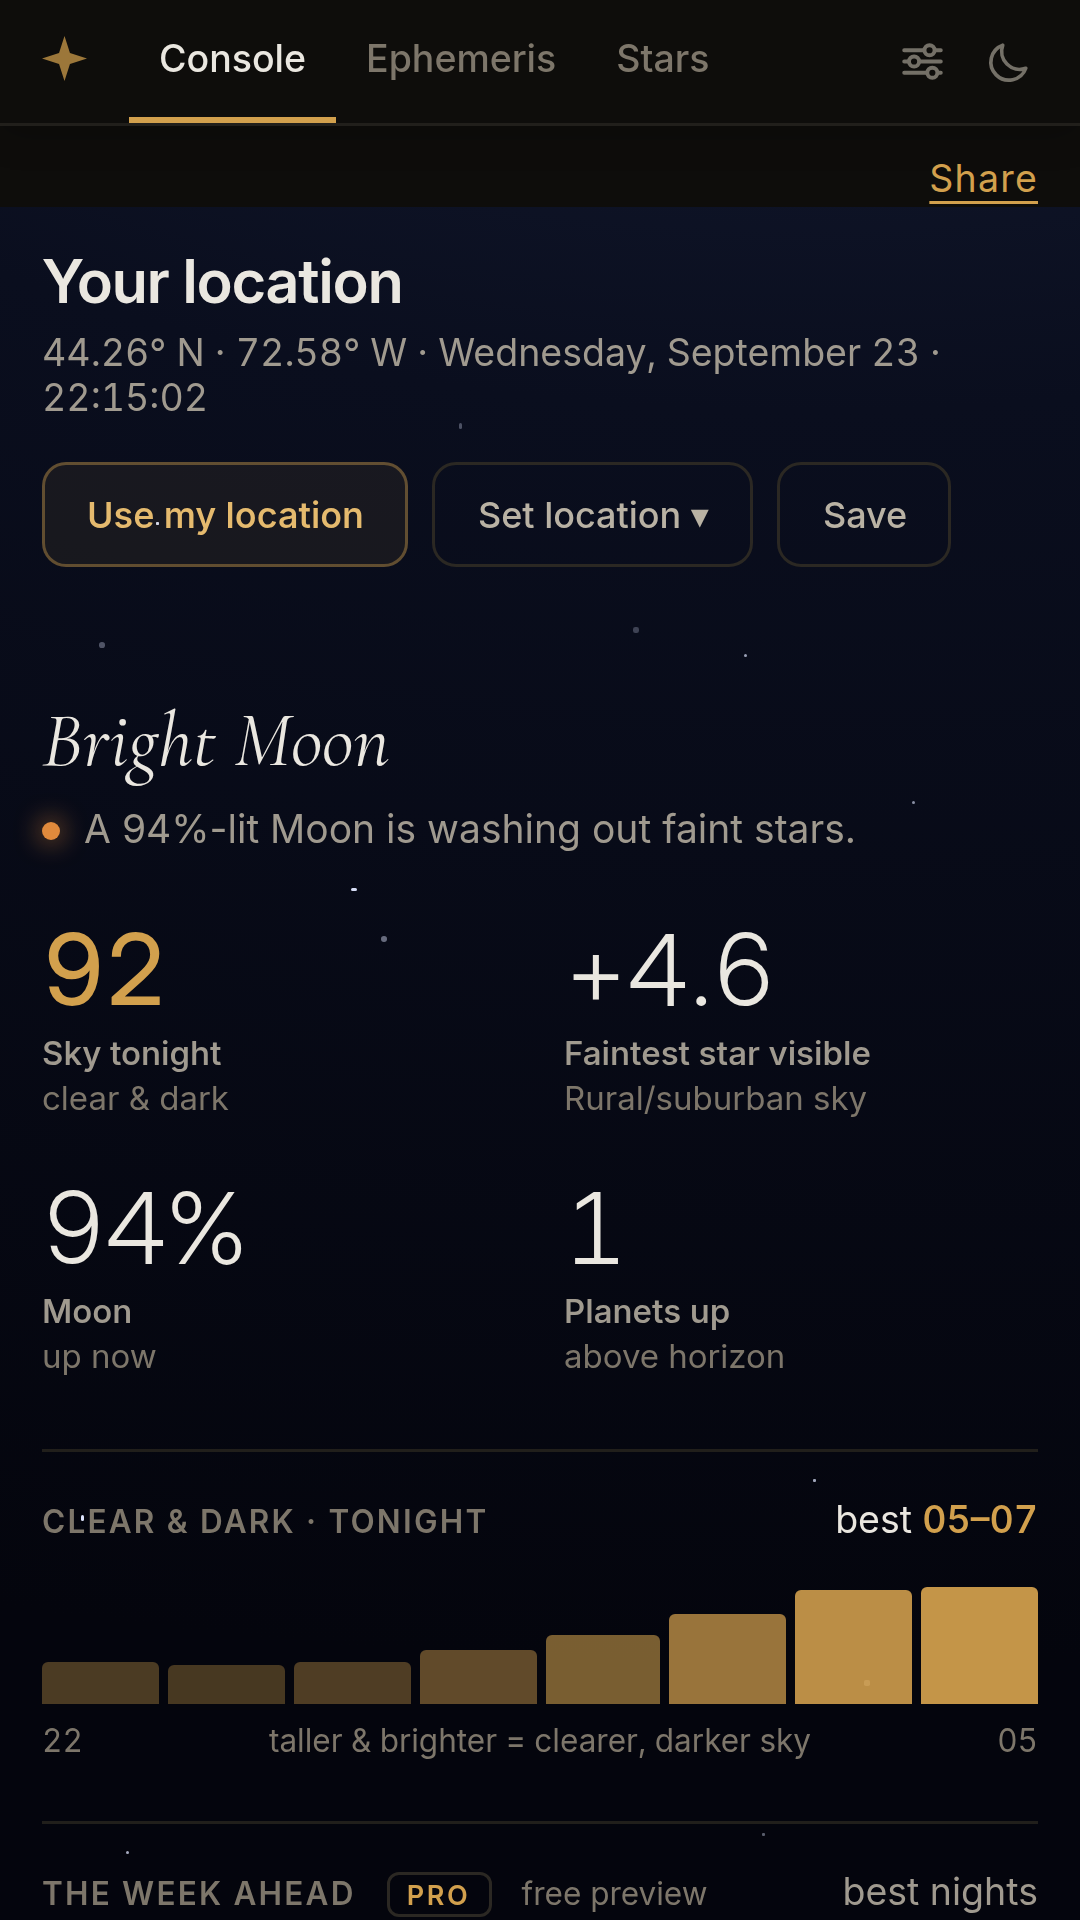
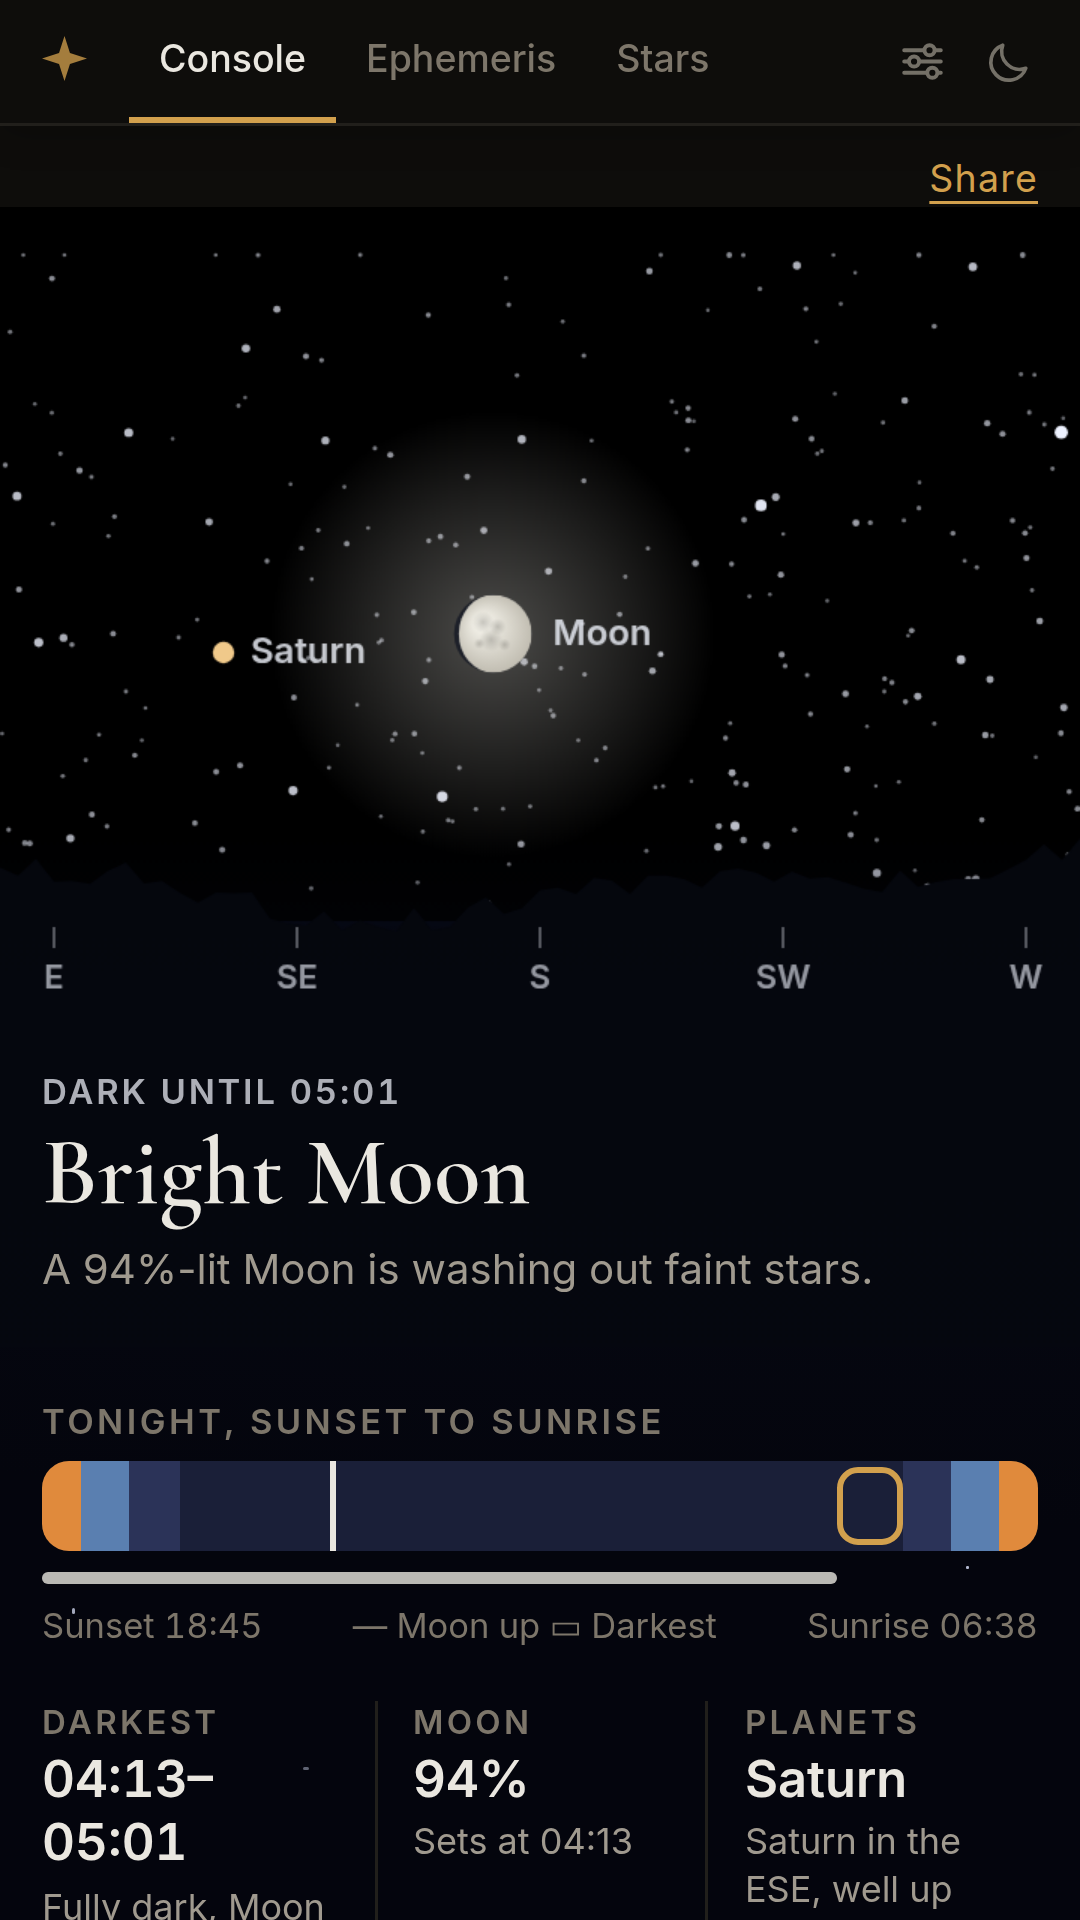
Console: make the horizon view the default first screen
The horizon view (a painting of this place's sky now, the verdict over it,
tonight as one ribbon, three facts) has been on the Console behind
?preview=horizon. It is now what everyone sees. The flag is removed and the
old tw_preview_horizon key is cleared on load.

The preview only stacked the painting on top of the whole old Console, so
with it on, the page said the same things twice: the old top's italic
verdict ("Bright Moon" and its sentence) repeated the hero's, and its Moon
% and Planets-up figures repeated the Moon and Planets facts under the
ribbon. Those three go. What the hero doesn't carry stays, in the same
order as before: the location header and controls, "Sky tonight" (the
clear-and-dark score) with "Faintest star visible", the score strip and week
planner, then the rest of the Console unchanged.

The verdict's role="status" / aria-live="polite" moves to the hero's verdict
block, so screen readers still hear it change as twilight advances.

The store and PWA Console screenshots (iOS iPhone and iPad, Android phone,
screenshot-narrow/wide) are retaken, since they showed the old top; the
other screenshots are unchanged.

Checked in Playwright at 390x844 and 1280x900 with no page errors; 210/210
tests pass; verify-build passes. BUILD and sw.js CACHE -> v84.

Claude-Session: https://claude.ai/code/session_01N1tCvpNFXVA1dYKhp5veEo

diff --git a/index.html b/index.html
@@ -2,7 +2,7 @@
 <html lang="en">
 <head>
 <meta charset="utf-8" />
-<meta http-equiv="Content-Security-Policy" content="default-src 'self'; script-src 'self' 'sha256-LtvvfGVmfcoHWp4+TD4Lt7CBdUP12N0xoz2a4TCIlgA=' 'sha256-2WFykE7wvy9rfb6MuxdEk17+inylzAieA3wTF6WO6oc=' 'sha256-5iQLZZarga65DX0f9Sd0iyRmfHgUzB8mc6W/19dA1m0=' 'sha256-LkFWAa/RC2sfmE0Q8fenW+wPSGyibVbI4IuekVq+JwQ=' 'sha256-JAy4ooiqCu/2GUX/T0oycyxLZ4vrWZ1Xwxtepo5wmOg='; style-src 'self' 'unsafe-inline'; img-src 'self' data:; font-src 'self'; connect-src 'self' https://geocoding-api.open-meteo.com https://api.open-meteo.com https://twilight-counter.ken-b39.workers.dev; manifest-src 'self'; worker-src 'self'; base-uri 'self'; form-action 'self'; object-src 'none'; upgrade-insecure-requests" />
+<meta http-equiv="Content-Security-Policy" content="default-src 'self'; script-src 'self' 'sha256-LtvvfGVmfcoHWp4+TD4Lt7CBdUP12N0xoz2a4TCIlgA=' 'sha256-2WFykE7wvy9rfb6MuxdEk17+inylzAieA3wTF6WO6oc=' 'sha256-5iQLZZarga65DX0f9Sd0iyRmfHgUzB8mc6W/19dA1m0=' 'sha256-3jrQJQU857KiIG0/RFQAcnDl4+/lJODK+0Xq3/0PnaI=' 'sha256-JAy4ooiqCu/2GUX/T0oycyxLZ4vrWZ1Xwxtepo5wmOg='; style-src 'self' 'unsafe-inline'; img-src 'self' data:; font-src 'self'; connect-src 'self' https://geocoding-api.open-meteo.com https://api.open-meteo.com https://twilight-counter.ken-b39.workers.dev; manifest-src 'self'; worker-src 'self'; base-uri 'self'; form-action 'self'; object-src 'none'; upgrade-insecure-requests" />
 <meta name="viewport" content="width=device-width, initial-scale=1, viewport-fit=cover" />
 <meta name="theme-color" content="#070a14" />
 <title>Twilyte — Live Sky Dashboard & Twilight Ephemeris</title>
@@ -1592,7 +1592,7 @@ const C = {
 // Bumped with sw.js's CACHE, so a Sensor details screenshot says which build
 // it came from. It sat at v56 for weeks while the app moved on, which made
 // every field report ambiguous.
-const BUILD = "v83";
+const BUILD = "v84";
 const PAGE_BG = "radial-gradient(1200px 760px at 75% -10%, #1b2440 0%, #0a0e1e 45%, #04050d 100%)";
 const PHASE_META = {
   day: {
@@ -1949,16 +1949,9 @@ function tonightGlance(live) {
    decoration: the colours come from the Sun's altitude, the stars shown are
    the ones the app estimates you can actually see (Moon and light pollution
    included), and the Moon and planets sit at their real bearing and height.
-   In preview until it replaces the old top: ?preview=horizon turns it on and
-   remembers, ?preview=off turns it off. */
-const HORIZON_PREVIEW = (() => {
-  try {
-    const q = new URLSearchParams(window.location.search).get('preview');
-    if (q === 'horizon') localStorage.setItem('tw_preview_horizon', '1');
-    if (q === 'off') localStorage.removeItem('tw_preview_horizon');
-    return localStorage.getItem('tw_preview_horizon') === '1';
-  } catch (e) { return false; }
-})();
+   The Console's first screen since 2026-09-23 (it was behind
+   ?preview=horizon before that). */
+try { localStorage.removeItem('tw_preview_horizon'); } catch (e) {}
 const HZ_SPAN = 200; // degrees of horizon across the painting
 
 /* The night in progress, or the next one: a sunset and the sunrise after it.
@@ -3010,7 +3003,7 @@ function SkyChart({ stars, lines, planets, moon, sunAz, fix, polaris }) {
   );
 }
 
-/* The top of the Console in the horizon preview: the painted sky with the
+/* The top of the Console: the painted sky with the
    verdict over its ground, then the ribbon and the facts. */
 function HorizonHero({ loc, now, live, glance, bortle }) {
   const canvasRef = useRef(null);
@@ -3097,7 +3090,12 @@ function HorizonHero({ loc, now, live, glance, bortle }) {
         ref: canvasRef, className: 'hz-sky', style: { display: 'block', width: '100%', height: H },
         'aria-hidden': 'true'
       }),
-      React.createElement('div', { style: { position: 'absolute', left: pad, right: pad, bottom: 18, maxWidth: 1080, margin: '0 auto' } },
+      React.createElement('div', {
+        // Changes on its own as twilight advances, rarely enough that
+        // announcing it is useful rather than noisy.
+        role: 'status', 'aria-live': 'polite', 'aria-atomic': 'true',
+        style: { position: 'absolute', left: pad, right: pad, bottom: 18, maxWidth: 1080, margin: '0 auto' }
+      },
         React.createElement('div', {
           style: { fontFamily: 'var(--font-ui)', fontSize: 11.5, fontWeight: 600, letterSpacing: '.08em', textTransform: 'uppercase', color: 'rgba(238,241,250,.72)', fontVariantNumeric: 'tabular-nums' }
         }, heroLabel(plan, now, live.alt, fmt)),
@@ -3457,7 +3455,7 @@ function RealtimeTwilight({ redMode } = {}) {
       animation: `tw ${4 + s.d}s ease-in-out ${s.d}s infinite`
     }
   }))),
-  HORIZON_PREVIEW && React.createElement(HorizonHero, { loc, now, live, glance, bortle }),
+  React.createElement(HorizonHero, { loc, now, live, glance, bortle }),
   React.createElement("header", {
     style: {
       maxWidth: 1080,
@@ -3601,31 +3599,18 @@ function RealtimeTwilight({ redMode } = {}) {
       cursor: "pointer"
     }
   }, p.label))))),
+  // The verdict, the Moon and the planets are in the horizon view above;
+  // what it doesn't carry is the clear-and-dark score and how faint a star
+  // the sky allows.
   React.createElement("section", {
     style: { maxWidth: 1080, margin: "0 auto" }
   },
-    React.createElement("div", {
-      // Changes on its own as twilight advances, rarely enough that
-      // announcing it is useful rather than noisy.
-      role: "status", "aria-live": "polite", "aria-atomic": "true",
-      style: { padding: "22px 0 2px" }
-    },
-      React.createElement("div", {
-        style: { fontFamily: "var(--font-display)", fontStyle: "italic", fontSize: "clamp(26px,4.6vw,34px)", fontWeight: 400, color: C.ink, lineHeight: 1.05 }
-      }, glance.head),
-      React.createElement("div", { style: { display: "flex", alignItems: "center", gap: 8, marginTop: 7 } },
-        React.createElement("span", { "aria-hidden": "true", style: { width: 6, height: 6, borderRadius: "50%", background: glance.tone, boxShadow: `0 0 9px ${glance.tone}`, flexShrink: 0 } }),
-        React.createElement("span", { style: { fontFamily: "var(--font-ui)", fontSize: 13, color: C.inkDim, lineHeight: 1.5 } }, glance.sub)
-      )
-    ),
     React.createElement("div", {
       style: { display: "grid", gridTemplateColumns: "repeat(auto-fit, minmax(150px, 1fr))", gap: "20px 16px", padding: "18px 0 24px" }
     },
       [
         { k: "Sky tonight", v: wxScore && wxScore.score != null ? String(wxScore.score) : "—", h: wxScore ? wxScore.factor : "forecast unavailable", hero: true },
-        { k: "Faintest star visible", v: live.mag <= -9 ? "—" : `${live.mag >= 0 ? "+" : ""}${live.mag.toFixed(1)}`, h: bortle ? skyWord(bortle) : "with your eyes alone" },
-        { k: "Moon", v: `${Math.round(live.m.illum * 100)}%`, h: live.m.alt > 0 ? "up now" : "below horizon" },
-        { k: "Planets up", v: String(planets.length), h: "above horizon" }
+        { k: "Faintest star visible", v: live.mag <= -9 ? "—" : `${live.mag >= 0 ? "+" : ""}${live.mag.toFixed(1)}`, h: bortle ? skyWord(bortle) : "with your eyes alone" }
       ].map(s => React.createElement("div", { key: s.k },
         React.createElement("div", { style: { fontFamily: "var(--font-ui)", fontSize: 33, fontWeight: s.hero ? 450 : 300, color: s.hero ? C.brass : C.ink, lineHeight: 1, letterSpacing: "-0.02em", fontVariantNumeric: "tabular-nums" } }, s.v),
         React.createElement("div", { style: { fontFamily: "var(--font-ui)", fontSize: 11, fontWeight: 550, color: C.inkDim, marginTop: 4 } }, s.k),

diff --git a/sw.js b/sw.js
@@ -1,4 +1,4 @@
-const CACHE = 'twilight-v83';
+const CACHE = 'twilight-v84';
 const ASSETS = [
   '/',
   '/index.html',

diff --git a/CLAUDE.md b/CLAUDE.md
@@ -78,11 +78,15 @@ Three tabs, one `index.html`, no build step:
 - **`scripts/verify-build.js`**: CI build guard — asserts exactly 5 inline
   scripts, syntax-checks them, and asserts the CSP hashes match. Runs in
   `.github/workflows/build-guard.yml` on every push/PR.
-- **Console horizon view (redesign direction A, preview)** — the Console's
-  new first screen: a painted panorama of this location's sky now, the
-  verdict over it, tonight as one ribbon, three facts. **Behind a flag until
-  it replaces the old top**: `?preview=horizon` turns it on and remembers
-  (`tw_preview_horizon`), `?preview=off` clears it. Nothing in the painting
+- **Console horizon view (redesign direction A)** — the Console's first
+  screen: a painted panorama of this location's sky now, the verdict over
+  it, tonight as one ribbon, three facts. **The default since 2026-09-23**
+  (before that it sat behind `?preview=horizon`; the flag is gone and the
+  old `tw_preview_horizon` key is cleared on load). It replaced the old top's
+  italic verdict line and its Moon and Planets-up figures, which it repeats;
+  the location header, the "Sky tonight" score and "Faintest star visible"
+  follow it, then everything else as before. The hero carries the verdict's
+  `aria-live` status now. Nothing in the painting
   is invented — `skyColors(sunAlt)` gives the gradient, the stars drawn are
   those brighter than `live.mag` (the app's own faintest-visible estimate,
   Moon and light pollution included), and Moon, Sun and planets sit at their
@@ -671,7 +675,8 @@ that and is kept for its design detail):**
 (2026-09-23)** — iOS (iPhone + iPad), Android phone + feature graphic, and
 the PWA's `screenshot-narrow.png` / `screenshot-wide.png`, which
 `store-assets/generate.js` now also writes (they had no generator before).
-They show the default Console, not the `?preview=horizon` one. The Android
+The Console shots were retaken when the horizon view became the default
+(same day). The Android
 phone shots (360 px CSS) have no header wordmark: below 385 px the app hides
 it so the header can't overflow, so that is the real app, not a bug.
 
